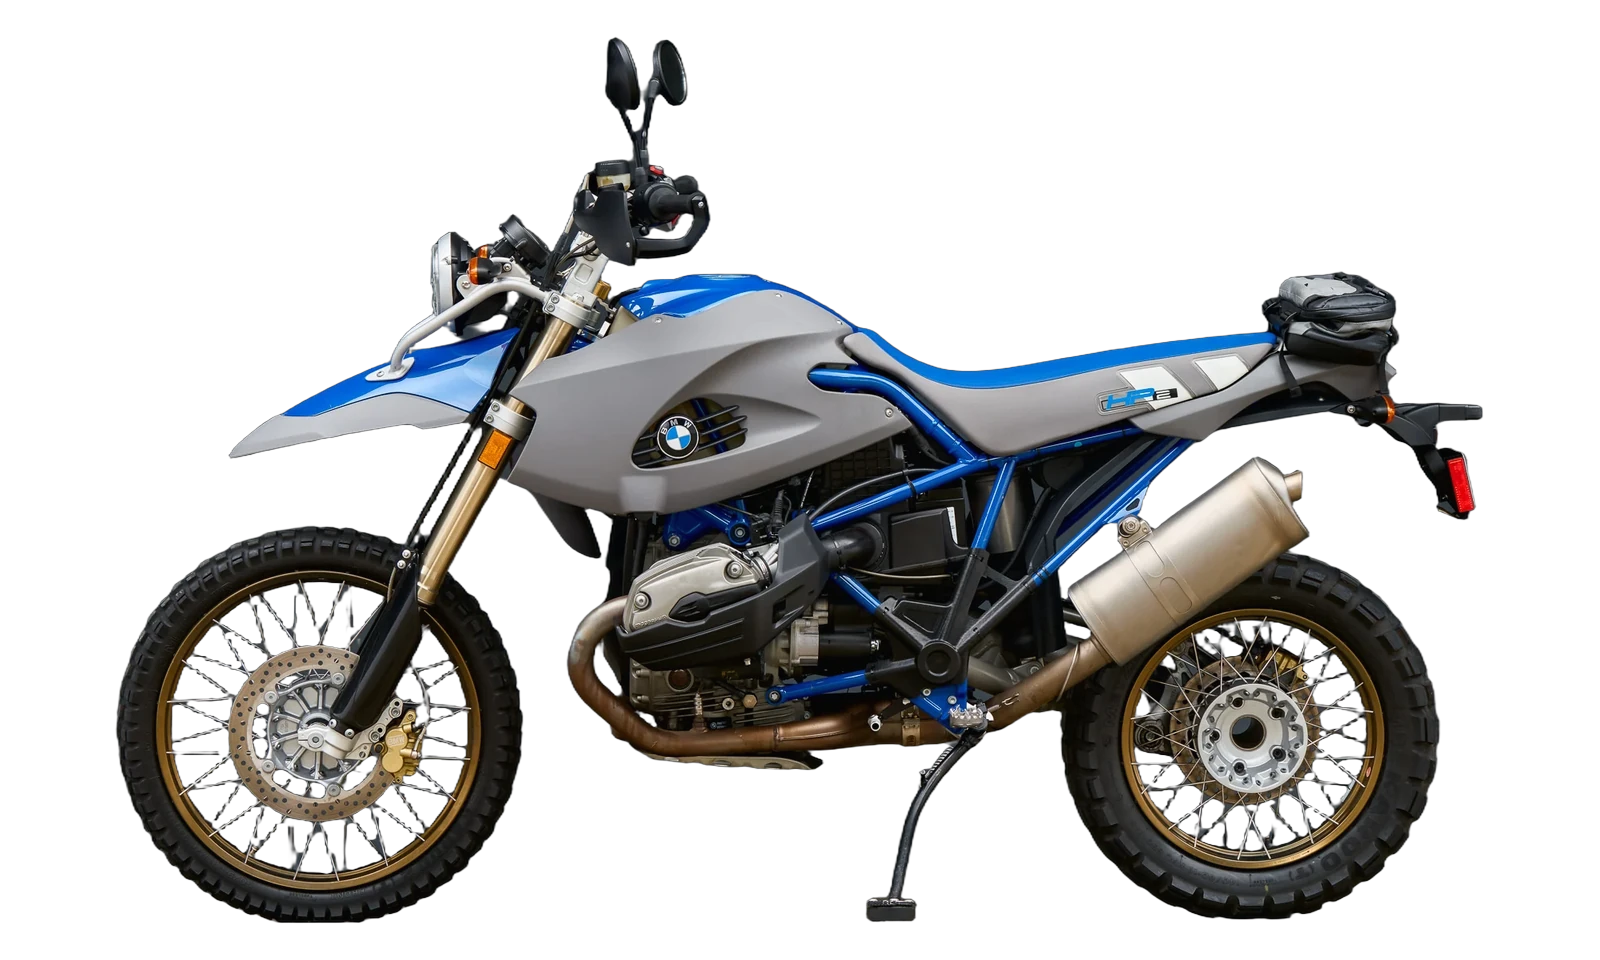
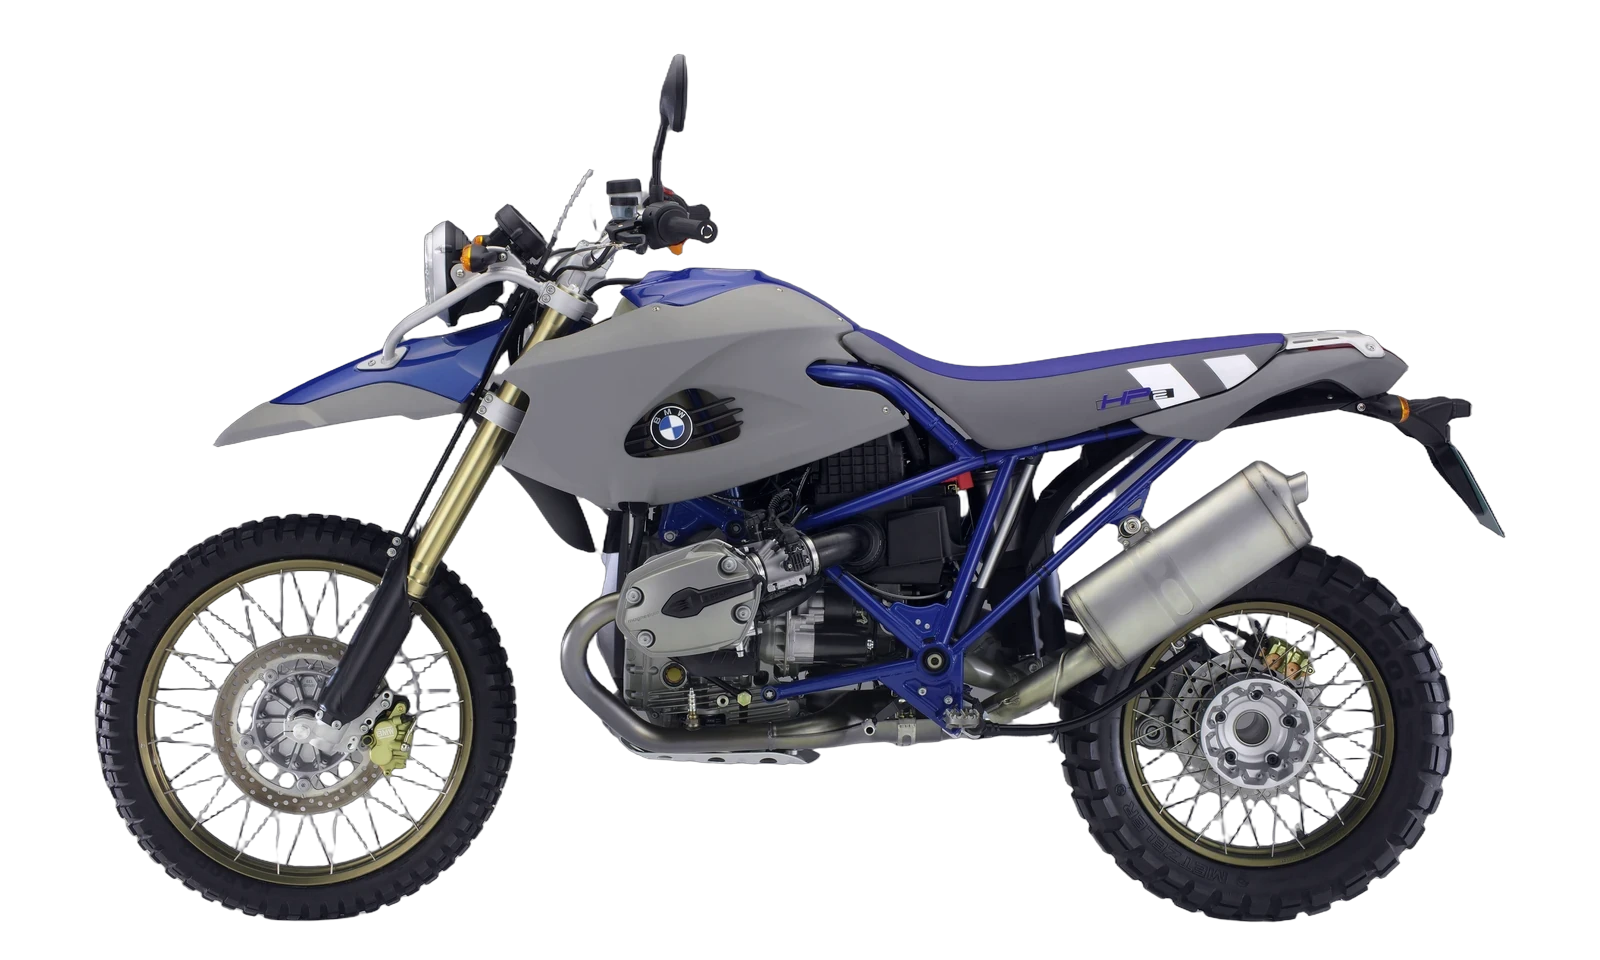
fix: hp2 colour

Changed region(s): [[0.0625, 0.0312, 0.9375, 0.9688], [0.5312, 0.9062, 0.5938, 0.9688]]

diff --git a/src/data/photos.ts b/src/data/photos.ts
@@ -214,10 +214,11 @@ export const photos: Record<string, PhotoSet> = {
     views: [
       { side: "left", src: "/bikes/bmw-hp2-enduro-2005/left.webp" },
       { side: "right", src: "/bikes/bmw-hp2-enduro-2005/right.webp" },
+      { side: "front", src: "/bikes/bmw-hp2-enduro-2005/front.webp" },
     ],
-    credit: "BMW Motorrad",
-    source: "https://www.motorcyclespecs.co.za/model/bmw/bmw-hp2-enduro-06.html",
-    note: "2007 studio images; the HP2 ran unchanged from 2005 to 2008.",
+    credit: "BMW AG",
+    source: "https://www.press.bmwgroup.com/global/photo/detail/P0018219",
+    note: "BMW's own 04/2005 press set: P0018219, P0018213 and P0018220.",
   },
 };
 

diff --git a/scripts/img/cutout.py b/scripts/img/cutout.py
@@ -78,6 +78,39 @@ def match_colour(img, ref_path):
     return Image.merge("RGBA", (*corrected.split(), img.getchannel("A"))), gain
 
 
+def to_srgb(img):
+    """Convert a print original through its own profile.
+
+    Press kits ship CMYK JPEGs carrying an ISO Coated profile. Pillow's plain
+    convert("RGB") applies a formula and ignores the profile, which lands the
+    whole image several points green. Going through the profile keeps a neutral
+    studio backdrop neutral.
+    """
+    if img.mode != "CMYK":
+        return img, False
+    profile = img.info.get("icc_profile")
+    if not profile:
+        return img.convert("RGB"), False
+
+    import io as _io
+
+    from PIL import ImageCms
+
+    source = ImageCms.ImageCmsProfile(_io.BytesIO(profile))
+    # Relative colorimetric with black point compensation, not the default
+    # perceptual intent: perceptual compresses the whole gamut to fit and comes
+    # out dark and olive, which on the HP2 press shot turned grey bodywork khaki.
+    converted = ImageCms.profileToProfile(
+        img,
+        source,
+        ImageCms.createProfile("sRGB"),
+        renderingIntent=ImageCms.Intent.RELATIVE_COLORIMETRIC,
+        flags=ImageCms.Flags.BLACKPOINTCOMPENSATION,
+        outputMode="RGB",
+    )
+    return converted, True
+
+
 def isolate(img, floor=BODY_ALPHA, grow=3):
     """Keep the bike and nothing else.
 
@@ -212,6 +245,9 @@ def main():
         ap.error("give a source and a slug/side, or use --audit")
 
     img = Image.open(args.source)
+    img, managed = to_srgb(img)
+    if managed:
+        print("converted CMYK to sRGB through the file's own profile")
     img = img.convert("RGBA") if args.transparent else cut(img, args.model).convert("RGBA")
 
     if args.isolate:

diff --git a/IMG_GEN.md b/IMG_GEN.md
@@ -74,6 +74,37 @@ differs between the two shoots for reasons white balance cannot touch. Correctin
 half the difference can look worse than leaving the shot as the photographer
 graded it. Compare both and keep whichever actually reads better.
 
+### Print originals in CMYK
+
+A press kit often ships CMYK JPEGs laid out for A4 at 300 dpi, carrying an ISO
+Coated profile. The script converts these through the file's own profile and
+says so when it does.
+
+Two ways to get this wrong, both of which came out green on BMW's HP2 shot,
+measured on a studio backdrop that should be neutral:
+
+| conversion                             | backdrop    |
+| -------------------------------------- | ----------- |
+| Pillow's plain `convert("RGB")`        | 108/124/128 |
+| through the profile, perceptual intent | 115/115/114 |
+| through the profile, relative + BPC    | 127/127/126 |
+| macOS ColorSync, for comparison        | 130/130/130 |
+
+The plain convert applies a formula and ignores the profile outright. Perceptual
+is neutral but compresses the whole gamut to fit, so it lands dark, and dark grey
+with any yellow in it reads as khaki. Relative colorimetric with black point
+compensation is what the script uses, and it tracks ColorSync to within a couple
+of points.
+
+Two other things about press files:
+
+- **Crop the caption bar off first.** It is solid black and fully opaque, so it
+  lands inside the bounding box and shrinks the bike to make room for it. It runs
+  down the side of a landscape frame and along the bottom of a portrait one.
+- **A cropped copy must not carry the CMYK profile.** Saving the crop as a PNG
+  keeps the profile, and Pillow then refuses to read its own file back
+  ("Decompressed Data Too Large"). Write the pixels into a fresh `Image` first.
+
 ### Press images that carry more than the bike
 
 Manufacturer cutouts often ship with something extra baked in. `--isolate` keeps
